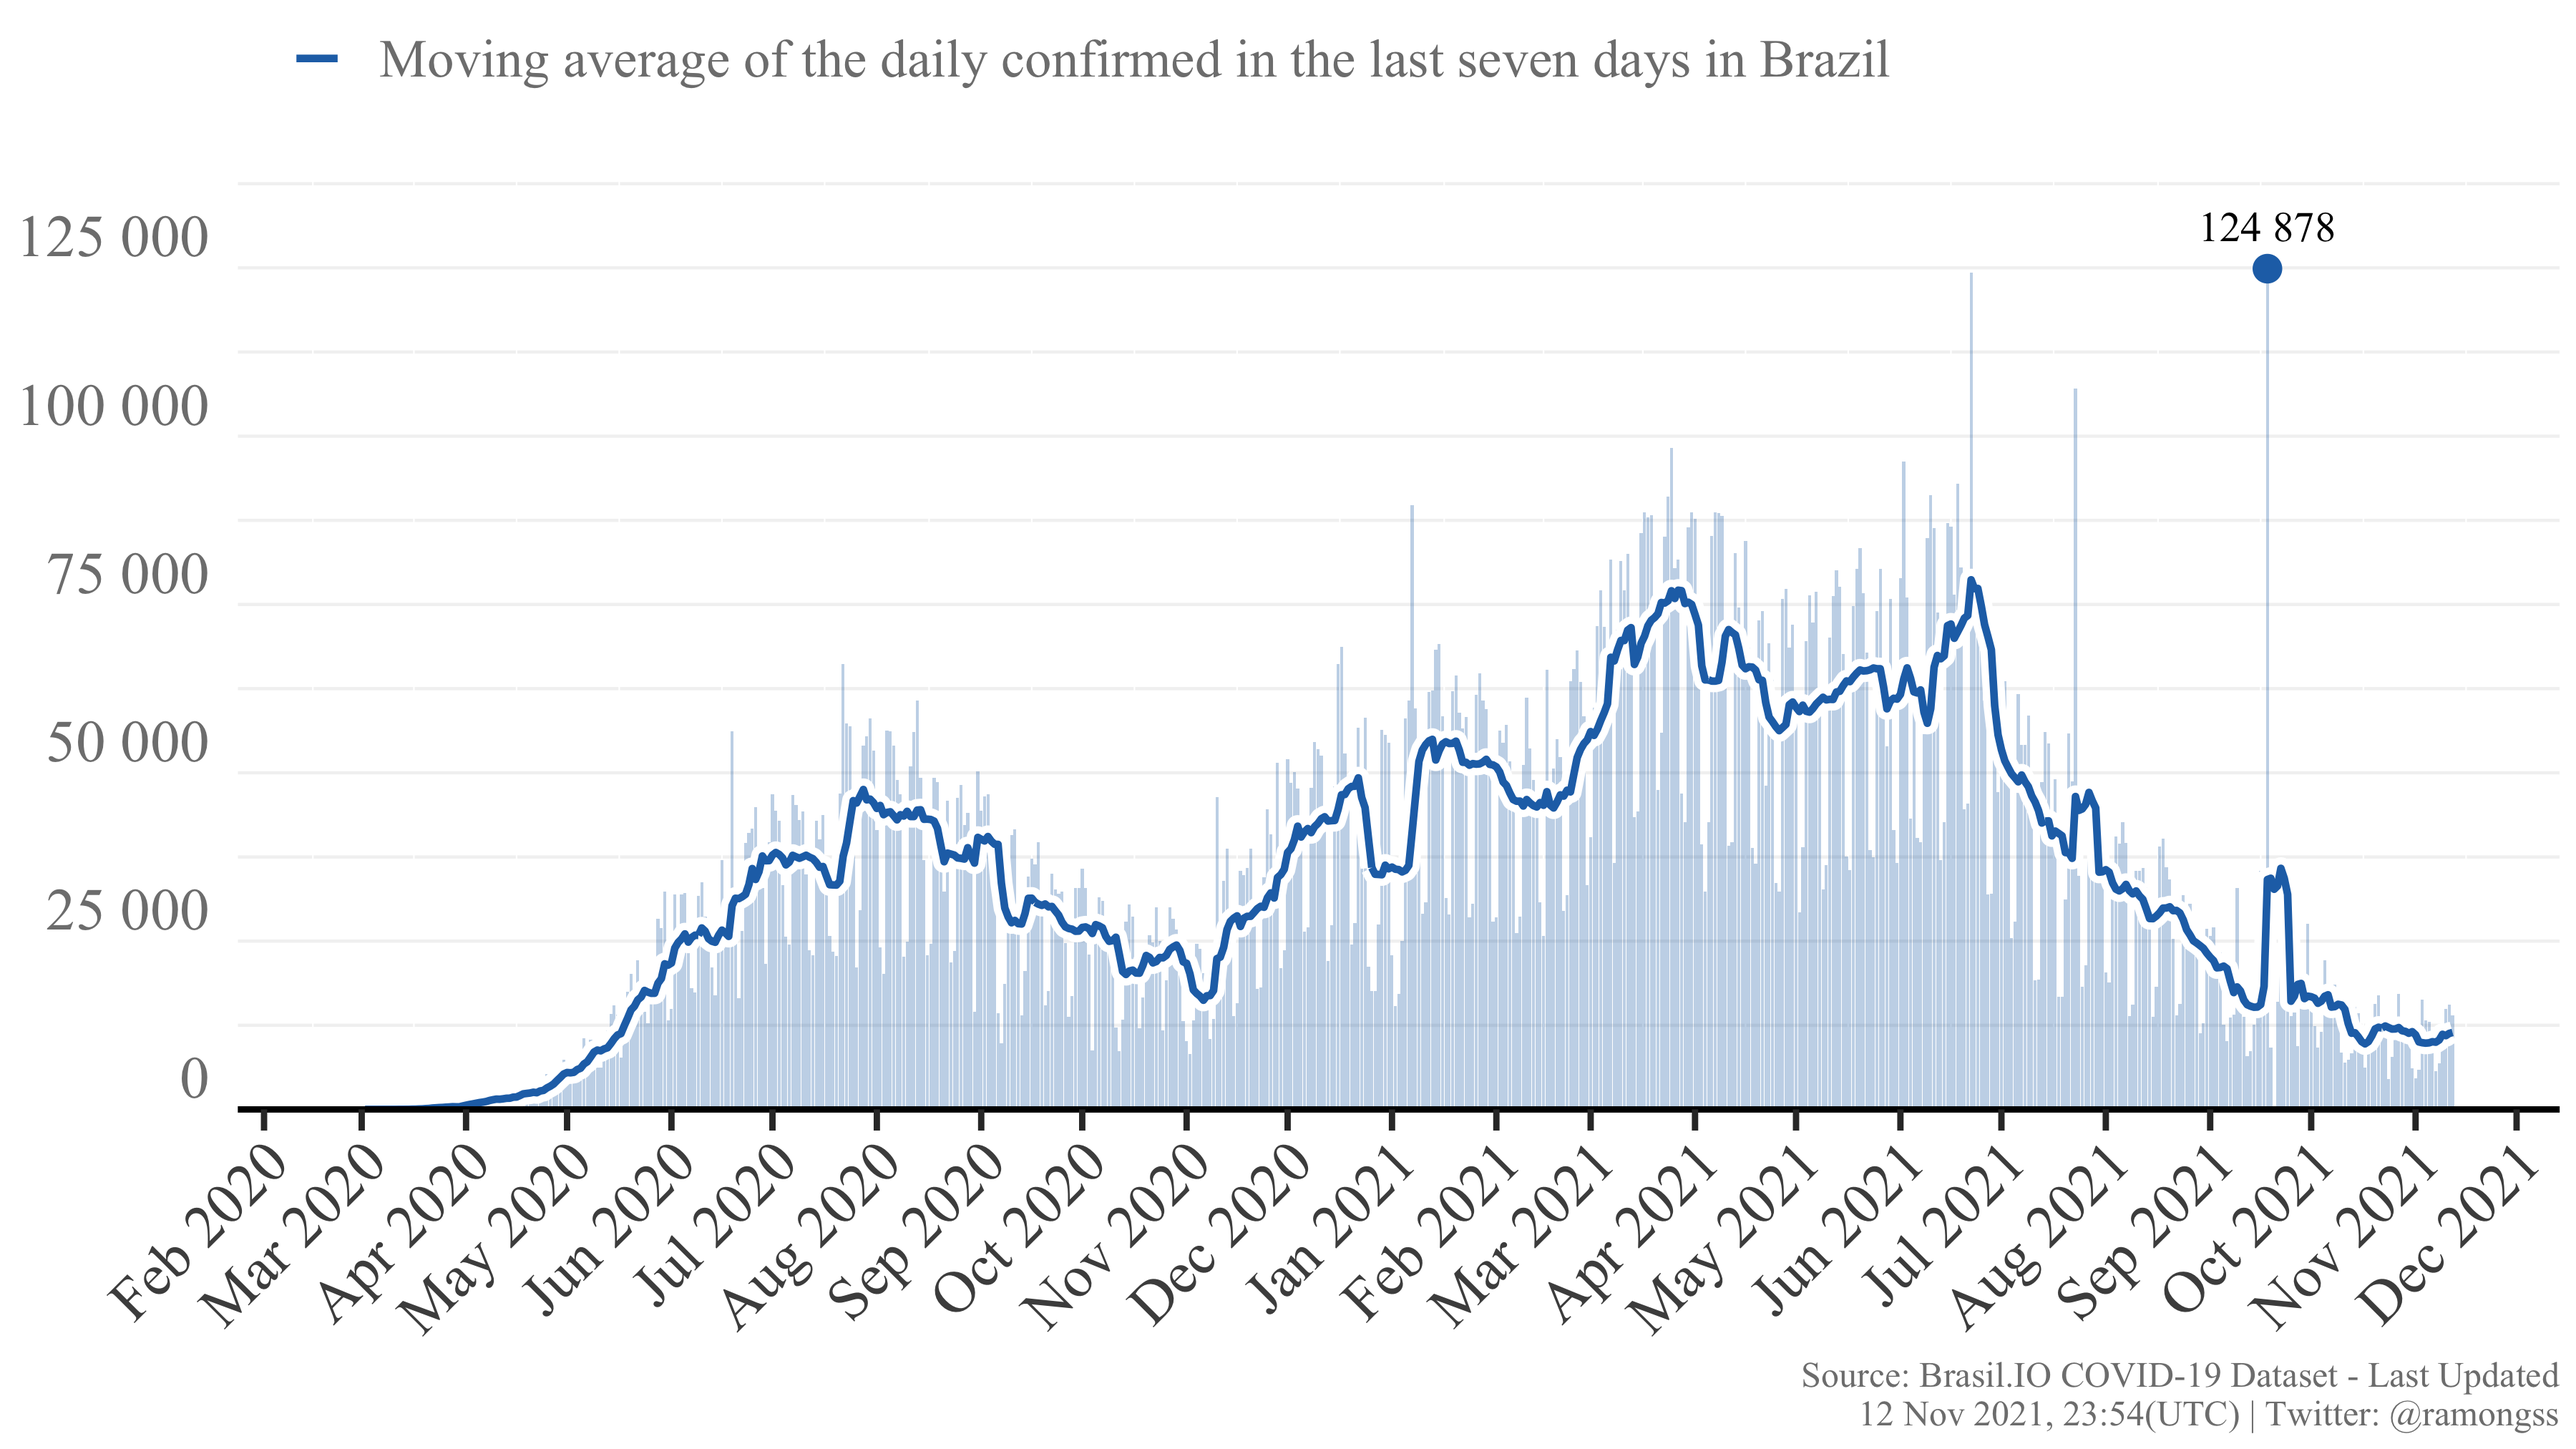
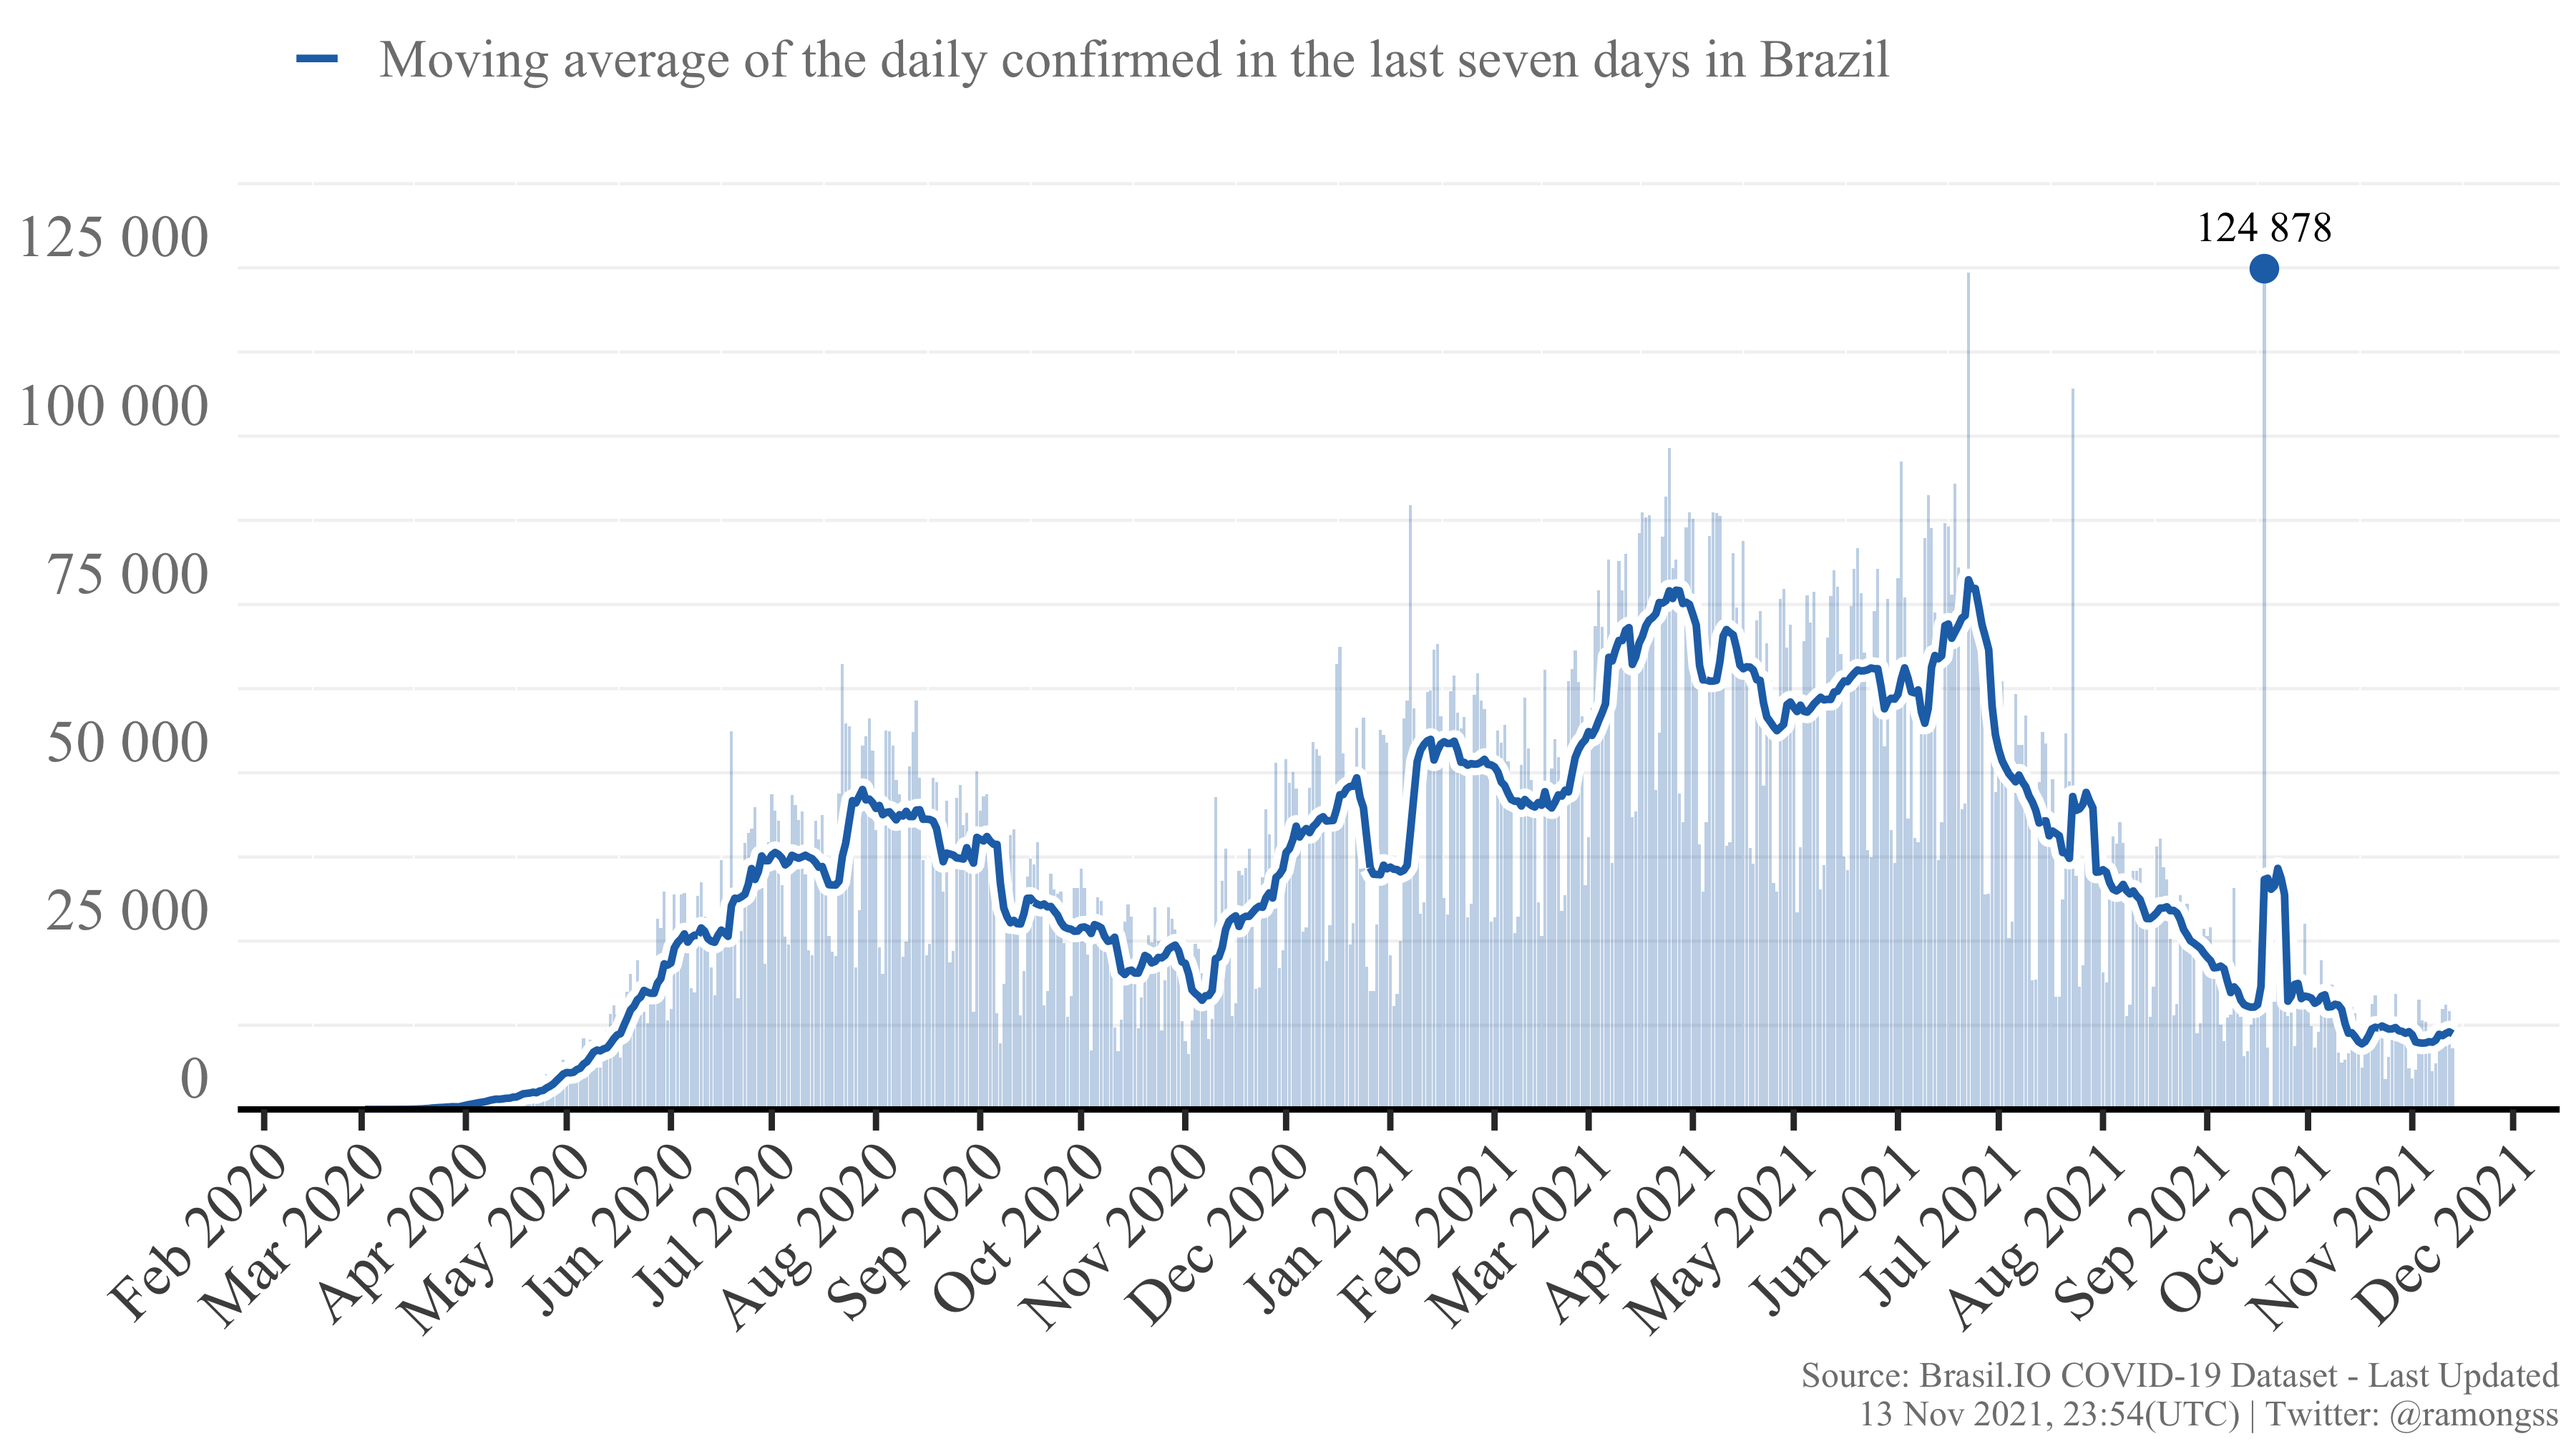
Re-build README.Rmd

diff --git a/README.md b/README.md
@@ -27,8 +27,8 @@ download_brasilio_table <- function(dataset = "covid19", table_name){
 
 ## COVID-19 Confirmed cases
 
-Currently, Brazil has a total of **21,947,721** confirmed cases at **12
-Nov, 2021**, with **13,960** new confirmed cases. The daily maximum
+Currently, Brazil has a total of **21,957,501** confirmed cases at **13
+Nov, 2021**, with **9,135** new confirmed cases. The daily maximum
 incidence was **124,878** confirmed cases at **18 Sep, 2021**. Here
 follows the Figure showing the confirmed case incidence as the bars, and
 the line as the moving average of the last 7 days.
@@ -37,8 +37,8 @@ the line as the moving average of the last 7 days.
 
 ## COVID-19 Deaths
 
-Currently, Brazil has a total of **611,168** deaths at **12 Nov, 2021**,
-with **616** new deaths. The daily maximum deaths incidence was
+Currently, Brazil has a total of **611,479** deaths at **13 Nov, 2021**,
+with **305** new deaths. The daily maximum deaths incidence was
 **4,148** deaths at **08 Apr, 2021**. Here follows the Figure showing
 the deaths incidence as the bars, and the line as the moving average of
 the last 7 days.
@@ -49,4 +49,4 @@ the last 7 days.
 
 This page is daily updated automatically using Github Actions.
 
-*Last update: 12 Nov 2021, 23:55 (UTC).*
+*Last update: 13 Nov 2021, 23:54 (UTC).*
